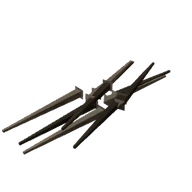
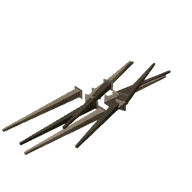
Avance: los clavos en el suelo, algo más grandes y claros y encima de la hierba (casi no se veían)
Claude-Session: https://claude.ai/code/session_011XgxtnVBrAw1BNaxHnj3K1

Changed region(s): [[0.0, 0.3125, 0.9062, 0.8125]]

diff --git a/src/juego/modelos_objetos.js b/src/juego/modelos_objetos.js
@@ -770,7 +770,7 @@ function mangos(n, id) {   // tumbados en el suelo, uno junto a otro (como mucho
 // Los clavos de forja (P10, 19 nov, los de la fragua: una barra da 10): caña cuadrada que se afina hasta la punta y la
 // cabeza batida a martillo en «rosa» (cuatro facetas), negros de la forja con las aristas algo más claras.
 // clavoEn() pone uno: la cabeza en (x, y, z) y la caña hacia `dir` (rotación de +Y a la caña).
-const CLAVO = 0x34322f, CLAVO_CLARO = 0x5a5753;
+const CLAVO = 0x45423e, CLAVO_CLARO = 0x6e6a64;
 export function clavoEn(L, x, y, z, rot = null, s = 1, k = 0) {
   const m = new THREE.Matrix4().makeRotationFromEuler(new THREE.Euler(rot?.x || 0, rot?.y || 0, rot?.z || 0)).setPosition(x, y, z);
   const pon = (g, c, dy, o) => { g.translate(0, dy, 0); L.add(g, c, x, y, z, m.clone(), { plano: true, tex: 'piedra', brillo: 1.1, sinSuelo: true, ...o }); };
@@ -782,8 +782,8 @@ export function clavoEn(L, x, y, z, rot = null, s = 1, k = 0) {
 function clavos(n, id) {   // un puñado: tumbados unos sobre otros, en todas direcciones (como mucho 10)
   const L = lote(0.02), k = Math.min(10, n || 1);
   for (let i = 0; i < k; i++) {
-    const a = i * 2.399 + az(id, i), d = Math.sqrt(i / 10) * 0.022, capa = i < 5 ? 0 : 1;
-    clavoEn(L, Math.cos(a) * d, 0.0045 + capa * 0.007, Math.sin(a) * d, { z: Math.PI / 2 + (az(id, 7 * i + 1) - 0.5) * 0.15, y: az(id, 0) * 6.28 + (i % 2) * Math.PI + (az(id, 7 * i + 3) - 0.5) * 0.7 }, 1, i);
+    const a = i * 2.399 + az(id, i), d = Math.sqrt(i / 10) * 0.028, capa = i < 5 ? 0 : 1;
+    clavoEn(L, Math.cos(a) * d, 0.009 + capa * 0.009, Math.sin(a) * d, { z: Math.PI / 2 + (az(id, 7 * i + 1) - 0.5) * 0.15, y: az(id, 0) * 6.28 + (i % 2) * Math.PI + (az(id, 7 * i + 3) - 0.5) * 0.7 }, 1.2, i);
   }
   return mallas(L);
 }
